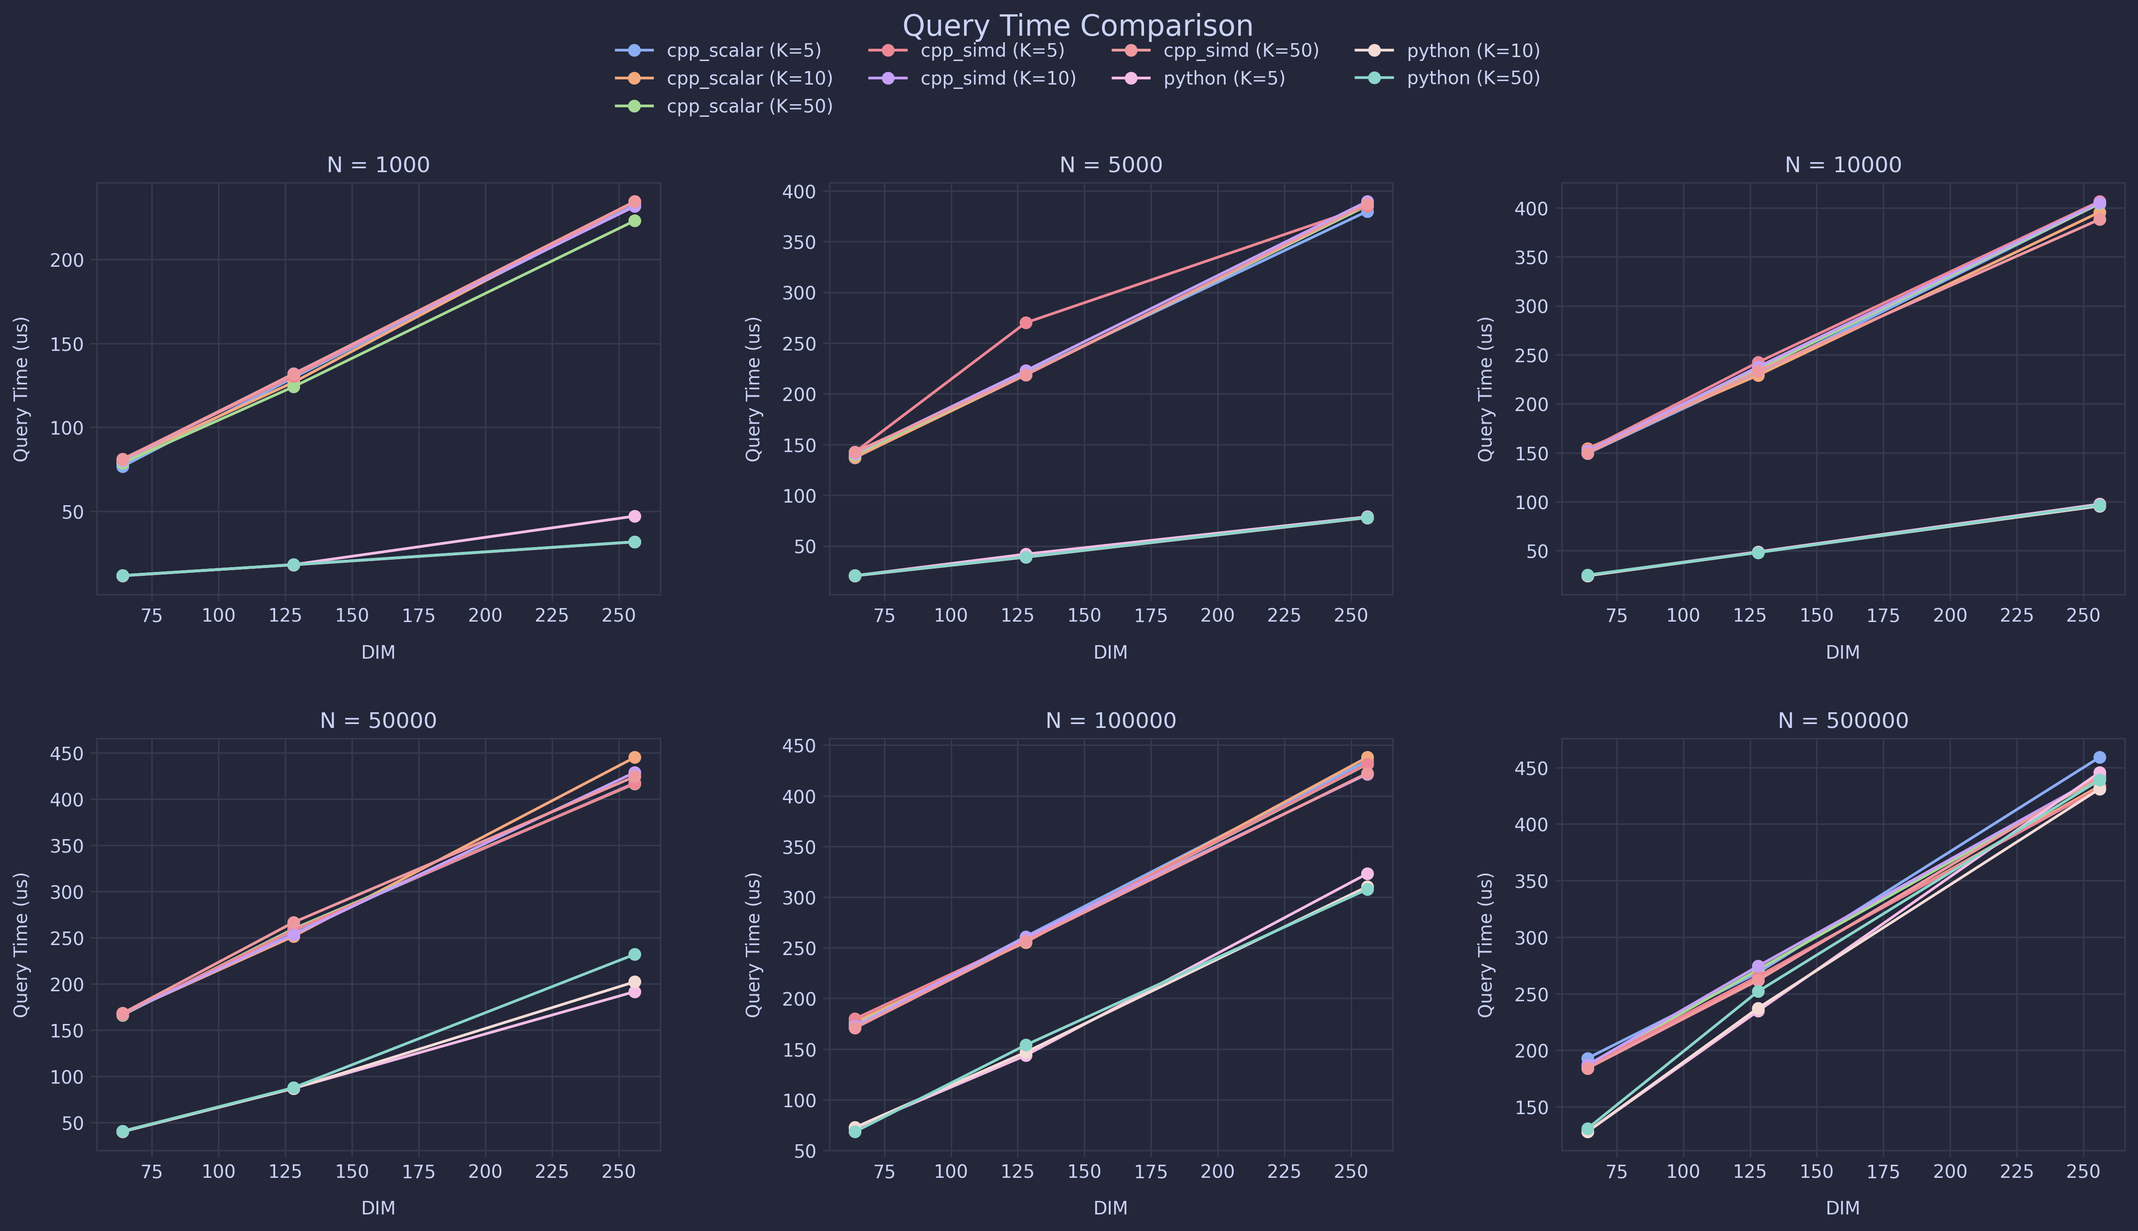
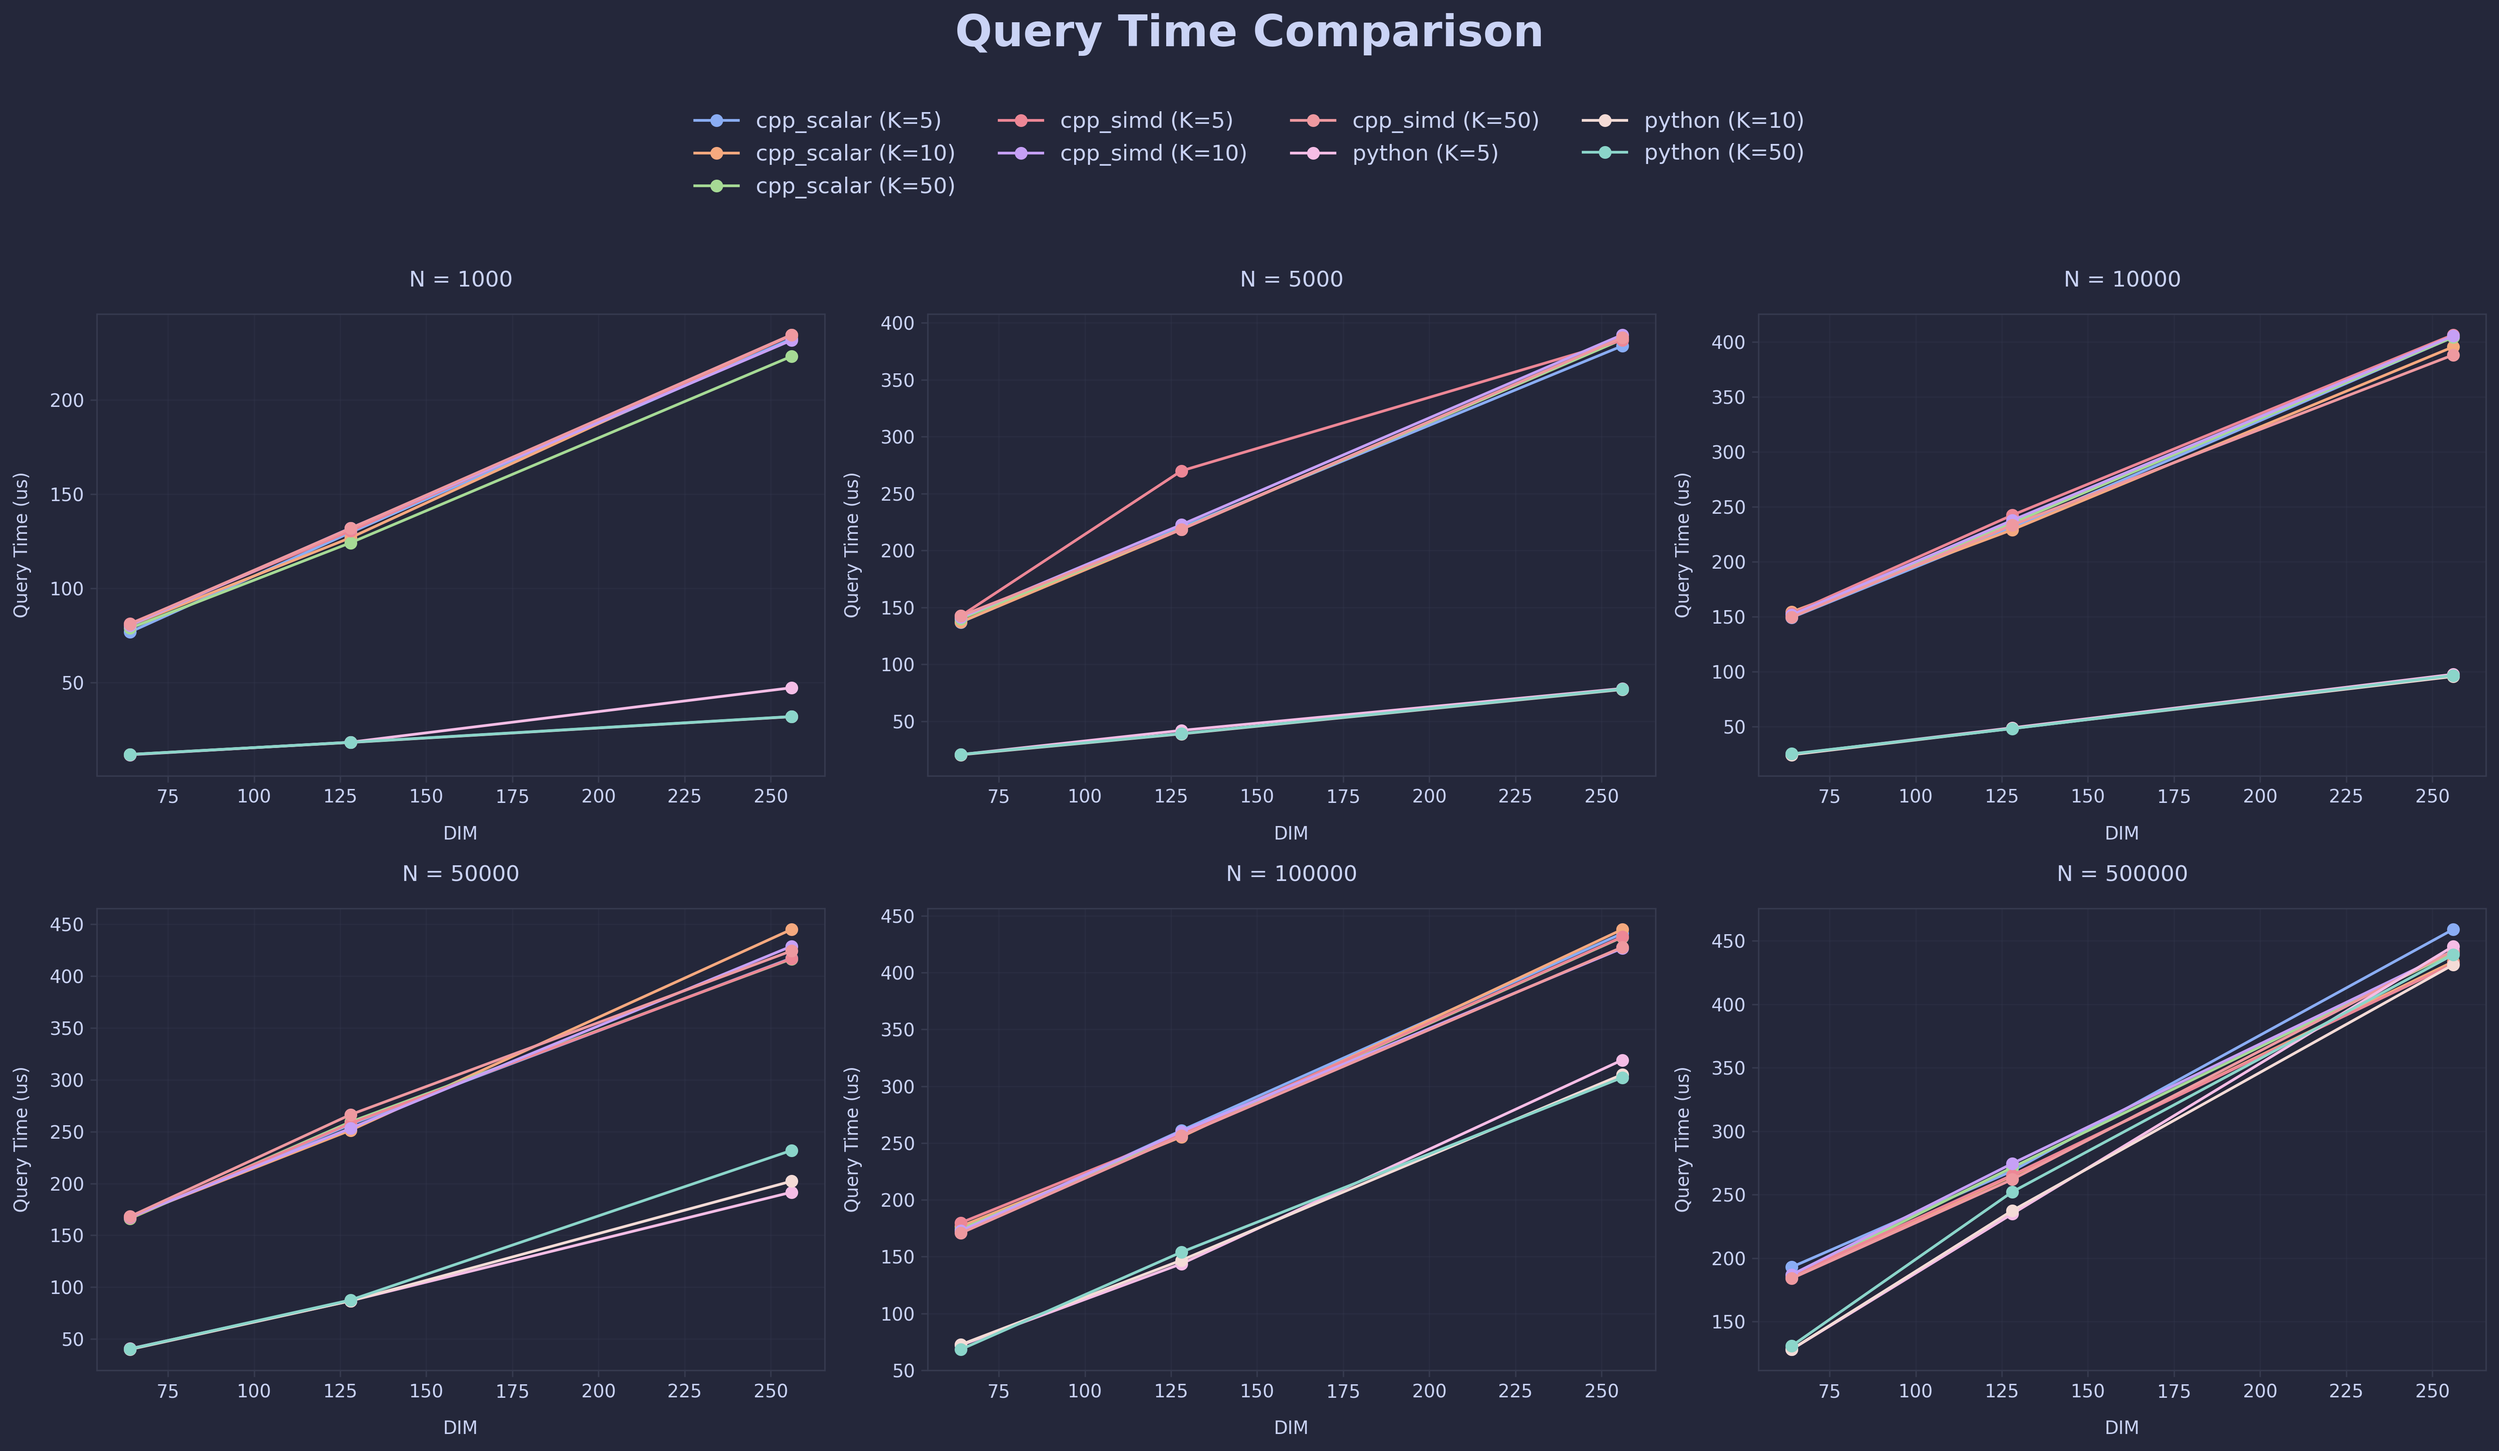
chore: update plot style

diff --git a/benchmarks/plot.py b/benchmarks/plot.py
@@ -2,6 +2,7 @@ import sys
 
 import pandas as pd
 import matplotlib
+
 matplotlib.use("Agg")
 import matplotlib.pyplot as plt
 from pathlib import Path
@@ -23,55 +24,45 @@ df = pd.concat([cpp, py], ignore_index=True)
 
 def plot_metric(metric: str, y_label: str, global_title: str):
     Ns = sorted(df.N.unique())
+    rows, cols = 2, 3
 
-    rows = 2
-    cols = 3
-
-    fig, axs = plt.subplots(rows, cols, figsize=(20, 10))
+    fig, axs = plt.subplots(rows, cols, figsize=(20, 12)) 
     axs = axs.flatten()
 
-    lines = []
-    labels = []
+    lines, labels = [], []
 
     for i, N in enumerate(Ns):
         ax = axs[i]
-
         dfN = df[df.N == N]
-
         for impl in dfN.impl.unique():
             sub = dfN[dfN.impl == impl]
-
             for K in sorted(sub.K.unique()):
                 dfK = sub[sub.K == K].sort_values("DIM")
-
                 label = f"{impl} (K={K})"
-                line, = ax.plot(dfK["DIM"], dfK[metric], marker="o", label=label)
-
+                (line,) = ax.plot(dfK["DIM"], dfK[metric], marker="o", label=label)
                 if label not in labels:
                     lines.append(line)
                     labels.append(label)
 
-        ax.set_title(f"N = {N}")
+        ax.set_title(f"N = {N}", pad=15)
         ax.set_xlabel("DIM", labelpad=10)
         ax.set_ylabel(y_label, labelpad=10)
-        ax.grid(True)
+        ax.grid(True, alpha=0.3)
 
-    fig.subplots_adjust(wspace=0.30, hspace=0.35, top=0.85)
-
-    fig.suptitle(global_title, fontsize=16)
-
+    fig.suptitle(global_title, fontsize=24, y=0.94, fontweight='bold')
     fig.legend(
         handles=lines,
         labels=labels,
         loc="upper center",
-        bbox_to_anchor=(0.5, 0.97),
+        bbox_to_anchor=(0.5, 0.89),
         ncol=4,
-        frameon=False
+        frameon=False,
+        fontsize=12
     )
+    plt.tight_layout(rect=[0.02, 0.02, 0.98, 0.83])
 
     plt.savefig(OUT / f"{metric}.png", dpi=300, bbox_inches="tight")
     plt.close(fig)
-
     print(f"Saved plot: {OUT / f'{metric}.png'}")
 
 def main():
